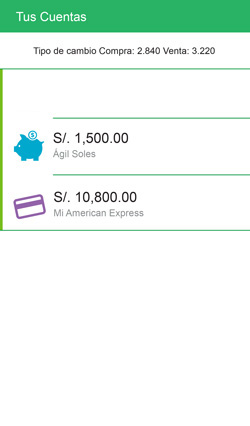
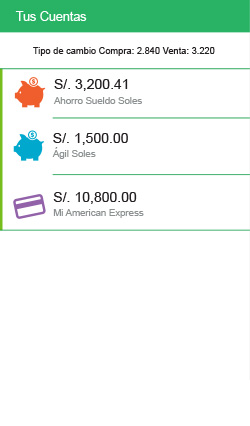
se optimizaron los botones

diff --git a/js/simulador.js b/js/simulador.js
@@ -1,9 +1,12 @@
 
-var partes, vista1, conteCuentas, frecuente, conteLogin, opeVista1, opeVista3, opeVista4, conteOperaciones, btnSiguiente, vista2, guia, guiaO, ahorroS, btnCuentas, btnMapa, btnCuentasOver, btnOperaciones, opeVista2, btnOperacionesOver, btnUs, conteMenu, vista3, pagosCyL, ubicacion1, ubicacion2, ubicacion3, btnUbicanos, btnSeguridad, btnComp, opeVista5, confirmarPago, vista4, btnCorreo, seg1, mandarEmail, animarMenu, conteUbicanos, btnTienda, btnNumCuentas, btnUbicanosOver, btnSeguridadOver, conteSeguridad, prr;
+var  vista1, conteCuentas, frecuente, conteLogin, opeVista1, opeVista3, opeVista4, conteOperaciones, btnSiguiente, vista2, guia, guiaO, ahorroS, btnCuentas, btnMapa, btnCuentasOver, btnOperaciones, opeVista2, btnOperacionesOver, btnUs, conteMenu, vista3, pagosCyL, ubicacion1, ubicacion2, ubicacion3, btnUbicanos, btnSeguridad, btnComp, opeVista5, confirmarPago, vista4, btnCorreo, seg1, mandarEmail, animarMenu, conteUbicanos, btnTienda, btnNumCuentas, opt1, btnUbicanosOver, transfDinero,btnSeguridadOver, btnPtajeta, conteSeguridad, prr;
 var path = "img/";
 var myGuia;
+var opcPagoFrec = false;
+
 $(document).ready(function(){
 	var loaderBar;
+	var canvas;
 	var stage;
 	var bar;
 	var imageContainer;
@@ -13,9 +16,6 @@ $(document).ready(function(){
 	var borderPadding;
 	var preload;
 	var oldItem;
-
-
-	partes = new Array();
 
 	function init() {
 		canvas = document.getElementById("myCanvas");
@@ -51,9 +51,7 @@ $(document).ready(function(){
 		manifest = [
 			{src: "simulador/login.jpg", id: "login"},
 			{src: "simulador/compartir-1.jpg", id: "vista2"},
-			{src: "simulador/bSiguiente.jpg", id: "btnSiguiente"},
 			{src: "simulador/guia.png", id: "guiaO"},
-			{src: "simulador/ahorroSueldoSoles.jpg", id: "ahorroS"},
 			{src: "simulador/cuentas.jpg", id: "btnCuentas"},
 			{src: "simulador/cuentasOver.jpg", id: "btnCuentasOver"},
 			{src: "simulador/operaciones.jpg", id: "btnOperaciones"},
@@ -63,26 +61,20 @@ $(document).ready(function(){
 			{src: "simulador/seguridad.jpg", id: "btnSeguridad"},
 			{src: "simulador/seguridadOver.jpg", id: "btnSeguridadOver"},
 			{src: "simulador/compartir-2.jpg", id: "vista3"},
-			{src: "simulador/btnCompartir.jpg", id: "btnComp"},
 			{src: "simulador/compartir-3.jpg", id: "vista4"},
-			{src: "simulador/btnCorreo.jpg", id: "btnCorreo"},
-			{src: "simulador/btnNumCuentas.jpg", id: "btnNumCuentas"},
-			{src: "simulador/mandarEmail.jpg", id: "mandarEmail"},
 			{src: "simulador/operacionesPagoRec.jpg", id: "opeVista1"},
-			{src: "simulador/PagarRecibosYrecargas.jpg", id: "prr"},
 			{src: "simulador/switch.png", id: "sw"},
 			{src: "simulador/operacionesPagoRec2.jpg", id: "opeVista2"},
 			{src: "simulador/operacionesPagoRec3.jpg", id: "opeVista3"},
 			{src: "simulador/operacionesPagoRec4.jpg", id: "opeVista4"},
-			{src: "simulador/confirmarPago.jpg", id: "confirmarPago"},
 			{src: "simulador/operacionesPagoRec5.jpg", id: "opeVista5"},
 			{src: "simulador/pagosCyL.jpg", id: "pagosCyL"},
 			{src: "simulador/ubicacion1.jpg", id: "ubicacion1"},
 			{src: "simulador/ubicacion2.jpg", id: "ubicacion2"},
 			{src: "simulador/ubicacion3.jpg", id: "ubicacion3"},
-			{src: "simulador/Tienda.jpg", id: "btnTienda"},
-			{src: "simulador/bMapa.jpg", id: "bMapa"},
 			{src: "simulador/candado.jpg", id: "seguridad1"},
+			{src: "simulador/boton.jpg", id: "btn"},
+			{src: "simulador/operacionesPtarjeta1.jpg", id: "opt1"}
 		];
 
 		preload = new createjs.LoadQueue(true, "test/");
@@ -118,40 +110,13 @@ $(document).ready(function(){
 	}
 
 	function handleFileLoad(event) {
-		var item = event.item;
-		partes.push(item)
-
-		login();
-		/*var image = event.result;
-		console.log(event.target);
-		var w = image.width;
-		var h = image.height;
-
-		var bmp = new createjs.Bitmap(image).set({
-			 scaleX: 1, scaleY: 1,
-			 regX: w / 2, regY: h / 2,
-			 //rotation: Math.random() * 16 - 8,
-			 //cursor: "pointer",
-			 x: 0, y: 0
-		});
-		
-		var container = new createjs.Container();
-		container.addChild(bmp);
-		imageContainer.addChild(container);
-		stage.update();*/
-	}
-
-	function handleTweenChange(tween) {
-		stage.update();
-	}
-
-	function tweenUpComplete(event) {
-		imageContainer.addChildAt(currentItem, 0);
+		//login();
 	}
 
 	function handleComplete(event) {
 		loaderBar.visible = false;
 		stage.update();
+		login();
 	}
 
 	init();
@@ -160,14 +125,14 @@ $(document).ready(function(){
 		console.log("animGuia");
 		var circle = new createjs.Shape();
 		circle.graphics.beginFill("#e2e2e2").drawCircle(0, 0, 10);
-		circle.alpha = 0.2;
+		circle.alpha = 0.5;
 		
 		guiaO = new createjs.Bitmap(preload.getResult("guiaO")).set({
 			 scaleX: 0.15, scaleY: 0.15, 
 			 x: -8, y: -8,
 			 //scaleX: 0.3, scaleY: 0.3, 
 			 //x: -17, y: -17,
-			 alpha: 0.3
+			 alpha: 0.5
 		});
 
 		createjs.Tween.get(guiaO, {loop: true}).to({scaleX: 0.4, scaleY: 0.4, alpha: 0, x: -23, y: -23}, 800, createjs.Ease.getPowInOut(4))
@@ -183,10 +148,10 @@ $(document).ready(function(){
 		vista1 = new createjs.Bitmap(preload.getResult("login"));
 		conteLogin.addChild(vista1);
 
-		btnSiguiente = new createjs.Bitmap(preload.getResult("btnSiguiente")).set({
+		btnSiguiente = new createjs.Bitmap(preload.getResult("btn")).set({
 			 cursor: "pointer",
-			 x: 20, y: 236,
-		});
+			 x: 20, y: 236, scaleX:210, scaleY:32, alpha: 0.01
+		})
 
 		conteLogin.addChild(btnSiguiente);
 
@@ -207,9 +172,9 @@ $(document).ready(function(){
 		vista2 = new createjs.Bitmap(preload.getResult("vista2"));
 		conteCuentas.addChild(vista2);
 
-		ahorroS = new createjs.Bitmap(preload.getResult("ahorroS")).set({
+		ahorroS = new createjs.Bitmap(preload.getResult("btn")).set({
 			 cursor: "pointer",
-			 x: 255, y: 70,
+			 x: 255, y: 70, scaleX: 233, scaleY: 44, alpha: 0.01
 		});
 
 		conteCuentas.addChild(ahorroS);
@@ -230,17 +195,17 @@ $(document).ready(function(){
 		animarMenu = false;
 		function cuentasEscena2(){
 			vista3 = new createjs.Bitmap(preload.getResult("vista3"));
-			btnNumCuentas = new createjs.Bitmap(preload.getResult("btnNumCuentas")).set({
+			btnNumCuentas = new createjs.Bitmap(preload.getResult("btn")).set({
 			 cursor: "pointer",
-			 x: 161, y: 90,
+			 x: 161, y: 90, scaleX: 161, scaleY: 42, alpha: 0.01
 			});
-			btnComp = new createjs.Bitmap(preload.getResult("btnComp")).set({
+			btnComp = new createjs.Bitmap(preload.getResult("btn")).set({
 			 cursor: "pointer",
-			 x: 715, y: 0,
+			 x: 715, y: 0, scaleX: 35, scaleY: 32, alpha: 0.01
 			});
 
 			conteCuentas.addChild(vista3);
-			conteCuentas.addChild(btnNumCuentas);
+			//conteCuentas.addChild(btnNumCuentas);
 			conteCuentas.addChild(btnComp);
 
 			conteCuentas.x = -500;
@@ -253,62 +218,71 @@ $(document).ready(function(){
 		}
 		function cuentasEscena3(){
 
-			vista4 = new createjs.Bitmap(preload.getResult("vista4"));
-
-			btnCorreo = new createjs.Bitmap(preload.getResult("btnCorreo")).set({
-			 cursor: "pointer",
-			 x: 764, y: 163,
+			vista4 = new createjs.Bitmap(preload.getResult("vista4")).set({
+			 cursor: "pointer"
 			});
 
 			conteCuentas.addChild(vista4);
-			conteCuentas.addChild(btnCorreo);
 
 			vista4.x = 750;
 			conteCuentas.x = -750;
 
-			guia.x = 950; guia.y = 178;
-			conteCuentas.addChild(guia);
-
-			btnCorreo.on("click", cuentasEscena4);
-		}
-		function cuentasEscena4 () {
-			console.log("Entro escena 4")
-			mandarEmail = new createjs.Bitmap(preload.getResult("mandarEmail"));
-
-			conteCuentas.addChild(mandarEmail);
-			conteCuentas.x = -1000
-
-			mandarEmail.x = 1000;
-
-			guia.x = 110; guia.y = 10; guia.alpha = 0.3;
-			conteCuentas.addChild(guia);
-
+			vista4.on("click", cuentasEscena2);
 		}
 	}
 	
 	function Operaciones(){
 
+		console.log(opcPagoFrec);
+
 		opeVista1 = new createjs.Bitmap(preload.getResult("opeVista1"));
 		conteOperaciones.addChild(opeVista1);
-
-		prr = new createjs.Bitmap(preload.getResult("prr")).set({
+		btnPtajeta = new createjs.Bitmap(preload.getResult("btn")).set({
 				 cursor: "pointer",
-				 x: 5, y: 82,
+				 x: 5, y: 33, scaleX: 246, scaleY: 46, alpha: 0.01
+				});
+		prr = new createjs.Bitmap(preload.getResult("btn")).set({
+				 cursor: "pointer",
+				 x: 5, y: 82, scaleX:246, scaleY: 47, alpha: 0.01
+				});
+		transfDinero = new createjs.Bitmap(preload.getResult("btn")).set({
+				 cursor: "pointer",
+				 x: 5, y: 134, scaleX:246, scaleY: 47, alpha: 0.01
 				});
 
+		
+
 		conteOperaciones.addChild(prr);
+		conteOperaciones.addChild(transfDinero);
+		conteOperaciones.addChild(btnPtajeta);
 
-		guia.x = 220; guia.y = 110;
-		conteOperaciones.addChild(guia);
-
+		btnPtajeta.on("click", OperacionTarjeta);
 		prr.on("click", OperacionesVista1);
+		transfDinero.on("click", OperacionesVista1);
 
 		conteOperaciones.x = 0;
 		stage.addChild(conteOperaciones);
 		stage.removeChild(conteCuentas);
 
+		if (opcPagoFrec) {
+
+					pagosCyL = new createjs.Bitmap(preload.getResult("pagosCyL"));
+					conteOperaciones.addChild(pagosCyL);
+
+					pagosCyL.x = 0; pagosCyL.y = 201;
+				};
+
 		menu(2);
 		animGuia();
+
+		function OperacionTarjeta () {
+			opt1 = new createjs.Bitmap(preload.getResult("opt1"));
+			conteOperaciones.addChild(opt1);
+
+			opt1.x = 1000;
+			conteOperaciones.x = -1000;
+			
+		}
 
 		function OperacionesVista1(){
 
@@ -318,9 +292,9 @@ $(document).ready(function(){
 			opeVista2.x = 250;
 			conteOperaciones.x = -250;
 
-			btnSiguiente = new createjs.Bitmap(preload.getResult("btnSiguiente")).set({
+			btnSiguiente = new createjs.Bitmap(preload.getResult("btn")).set({
 			 cursor: "pointer",
-			 x: 270, y: 346,
+			 x: 270, y: 346, scaleX:210, scaleY:32, alpha: 0.01
 			});
 			
 			conteOperaciones.addChild(btnSiguiente);
@@ -336,9 +310,9 @@ $(document).ready(function(){
 			opeVista3 = new createjs.Bitmap(preload.getResult("opeVista3"));
 			conteOperaciones.addChild(opeVista3);
 
-			ahorroS = new createjs.Bitmap(preload.getResult("ahorroS")).set({
+			ahorroS = new createjs.Bitmap(preload.getResult("btn")).set({
 			 cursor: "pointer",
-			 x: 505, y: 60,
+			 x: 505, y: 60, scaleX: 233, scaleY: 44, alpha: 0.01
 			});
 
 			conteOperaciones.addChild(ahorroS);
@@ -357,9 +331,9 @@ $(document).ready(function(){
 			opeVista4 = new createjs.Bitmap(preload.getResult("opeVista4"));
 			conteOperaciones.addChild(opeVista4);
 
-			confirmarPago = new createjs.Bitmap(preload.getResult("confirmarPago")).set({
+			confirmarPago = new createjs.Bitmap(preload.getResult("btn")).set({
 			 cursor: "pointer",
-			 x: 520, y: 352,
+			 x: 520, y: 352, scaleX: 210, scaleY: 28, alpha: 0.01
 			});
 			conteOperaciones.addChild(confirmarPago);
 
@@ -372,7 +346,9 @@ $(document).ready(function(){
 			conteOperaciones.addChild(frecuente);
 			conteOperaciones.addChild(confirmarPago);
 
-			var fondoGris = new createjs.Shape();
+			var fondoGris = new createjs.Shape().set({
+			 cursor: "pointer"
+			});
 		    fondoGris.graphics.beginFill('#EDEDED').drawRect(0, 0, 60, 16);
 		    frecuente.addChild(fondoGris);
 
@@ -383,7 +359,7 @@ $(document).ready(function(){
 
 		    selector.mask = fondoGris;
 
-		    guia.x = 730; guia.y = 300;
+		    guia.x = 715; guia.y = 310;
 			conteOperaciones.addChild(guia);
 
 		    frecuente.on("click", animSwitch);
@@ -400,6 +376,9 @@ $(document).ready(function(){
 
 
 	    function OperacionesVista4 () {
+
+	    	opcPagoFrec =true;
+
     		opeVista5 = new createjs.Bitmap(preload.getResult("opeVista5"));
 			conteOperaciones.addChild(opeVista5);
 
@@ -408,36 +387,20 @@ $(document).ready(function(){
 			opeVista5.x = 750;
 			conteOperaciones.x = -750;
 
-			var t=setTimeout(OperacionesVista5, 2000);
+			var t=setTimeout(Operaciones, 2000);
 
-    	}
-
-    	function OperacionesVista5 () {
-    		opeVista1 = new createjs.Bitmap(preload.getResult("opeVista1"));
-			conteOperaciones.addChild(opeVista1);
-
-			pagosCyL = new createjs.Bitmap(preload.getResult("pagosCyL"));
-			conteOperaciones.addChild(pagosCyL);
-
-			pagosCyL.x = 1000; pagosCyL.y = 201;
-			opeVista1.x = 1000;
-			conteOperaciones.x = -1000;
-
-			guia.x = 1220; guia.y = 55;
-			conteOperaciones.addChild(guia);
     	}
 	}
 
 	function Ubicanos(){
 		ubicacion1 = new createjs.Bitmap(preload.getResult("ubicacion1"));
 		conteUbicanos.addChild(ubicacion1);
-		btnTienda = new createjs.Bitmap(preload.getResult("btnTienda")).set({
+		btnTienda = new createjs.Bitmap(preload.getResult("btn")).set({
 		cursor: "pointer",
+		y: 89,scaleX: 250, scaleY: 49, alpha: 0.01
 		});
 		conteUbicanos.addChild(btnTienda);
 
-
-		btnTienda.y = 89;
 		guia.x = 160; guia.y = 115;
 		conteUbicanos.x = 0;
 
@@ -454,17 +417,15 @@ $(document).ready(function(){
 			ubicacion2 = new createjs.Bitmap(preload.getResult("ubicacion2"));
 			conteUbicanos.addChild(ubicacion2);
 
-			btnMapa = new createjs.Bitmap(preload.getResult("bMapa")).set({
+			btnMapa = new createjs.Bitmap(preload.getResult("btn")).set({
 				cursor: "pointer",
+				x:259, y:346, scaleX: 112, scaleY: 33, alpha: 0.01
 			});
 
 			guia.x = 350; guia.y = 363;
 
 			ubicacion2.x = 250;
-			conteUbicanos.x = -250;
-			btnMapa.x =259; btnMapa.y =346;
-
-			
+			conteUbicanos.x = -250;			
 
 			conteUbicanos.addChild(btnMapa);
 			conteUbicanos.addChild(guia);
